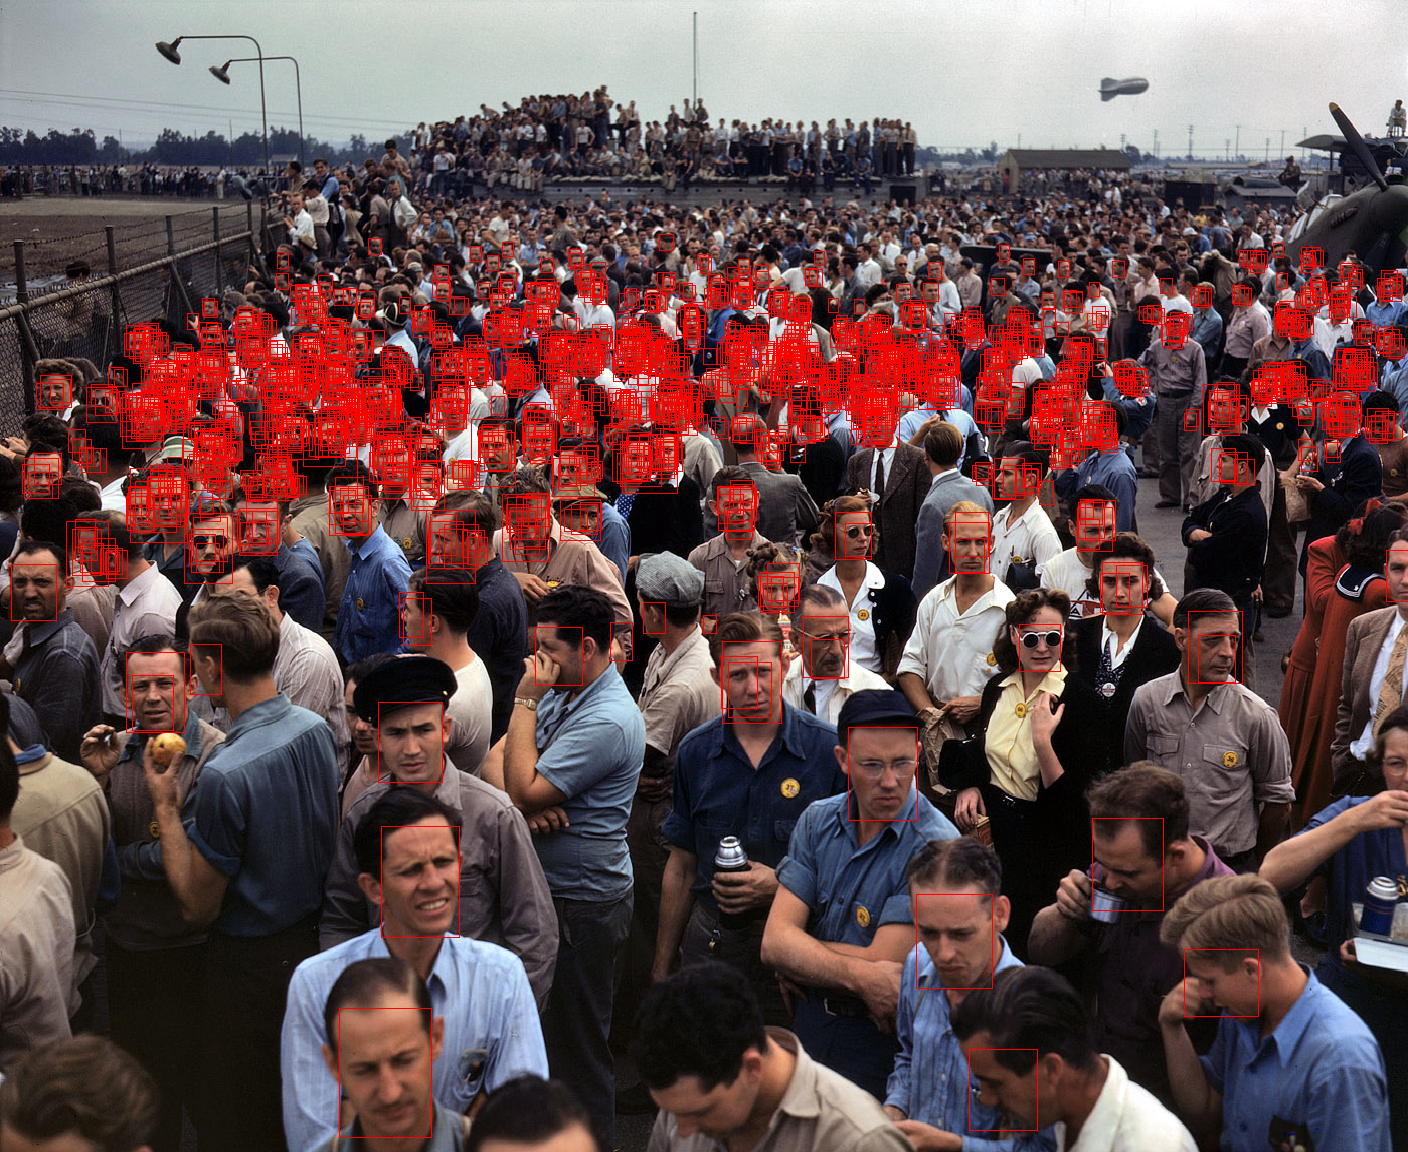
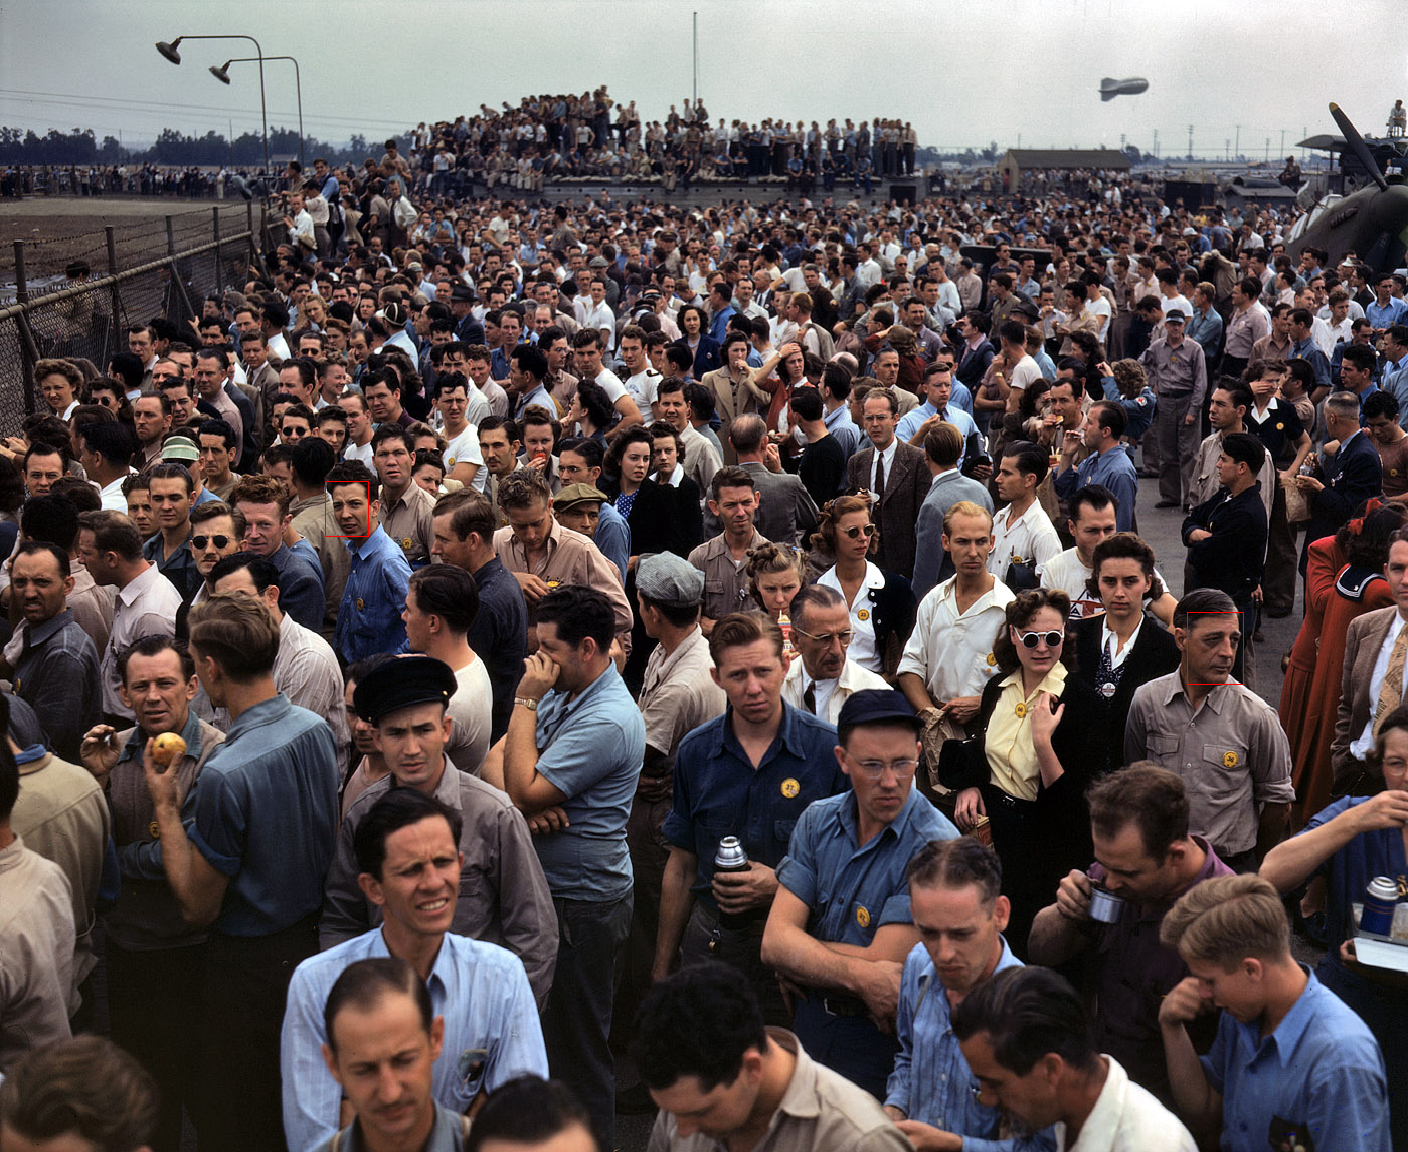
done with training

diff --git a/train.py b/train.py
@@ -2,7 +2,7 @@ import torch
 import torch.optim as optim
 import matplotlib.pyplot as plt
 
-from network_v_2_5 import FaceNet, Loss
+from network_v_2_4 import FaceNet, Loss
 from data_feeder import DataFeeder
 from util_detection import process_draw
 from process_data import get_paths_train, get_paths_val
@@ -39,9 +39,9 @@ def decrease_lr(optimizer):
 
 def main():
     train_data_feeder = DataFeeder(get_paths_train, preprocess_workers=4, cuda_workers=1,
-                                numpy_size=14, cuda_size=4, batch_size=2, jitter=True)
+                                numpy_size=14, cuda_size=4, batch_size=5, jitter=True)
     val_data_feeder = DataFeeder(get_paths_val, preprocess_workers=1, cuda_workers=1,
-                                numpy_size=6, cuda_size=1, batch_size=2, jitter = False,
+                                numpy_size=6, cuda_size=1, batch_size=5, jitter = False,
                                 volatile=True)
     train_data_feeder.start_queue_threads()
     val_data_feeder.start_queue_threads()
@@ -61,13 +61,18 @@ def main():
     v_class_logger= Logger("val_class_losses.txt")
     v_coord_logger= Logger("val_coord_losses.txt")
 
+    n_acc_grad = 1
     for i in range(150001):
-        batch_loss = calc_loss(model, loss, train_data_feeder, i, t_total_logger, t_class_logger, t_coord_logger)
-        train(batch_loss, optimizer)
+        optimizer.zero_grad()
+        for j in range(n_acc_grad):
+            batch_loss = calc_loss(model, loss, train_data_feeder, i*n_acc_grad + j, t_total_logger, t_class_logger, t_coord_logger)
+            #train(batch_loss, optimizer)
+            batch_loss.backward()
+        optimizer.step()
         if i % 20 == 0:
             print(i)
             model.eval()
-            calc_loss(model, loss, val_data_feeder, i, v_total_logger, v_class_logger, v_coord_logger)
+            calc_loss(model, loss, val_data_feeder, i*n_acc_grad, v_total_logger, v_class_logger, v_coord_logger)
             model.train()
         if i in [9999999999999]:
             decrease_lr(optimizer)
@@ -75,13 +80,13 @@ def main():
             torch.save(model.state_dict(), "savedir/facenet_"+version+"_it"+str(i//1000)+"k.pth")
     
     model.eval()
-    for i in range(0):
+    for i in range(10):
         _, batch = train_data_feeder.get_batch()
         images, gt, num_objects = batch
         images = images[0:1]
         boxes, classes, anchors = model(images)
         #process_draw(0.05, images, anchors, classes, use_nms = False, softmax=True)
-        process_draw(0.90, images, anchors, classes, use_nms = False, softmax=False, border_size=1)
+        process_draw(0.10, images, anchors, classes, use_nms = False, softmax=False, border_size=1)
 
     train_data_feeder.kill_queue_threads()
     val_data_feeder.kill_queue_threads()

diff --git a/create_eval_file.py b/create_eval_file.py
@@ -6,10 +6,10 @@ import torch
 import torch.nn as nn
 from torch.autograd import Variable
 
-from network_v_2_4 import FaceNet
+from network_v_1_4 import FaceNet
 from util_detection import nms
 from util_detection import process_draw
-
+ctr = 0
 def path2cudaimage(filepath):
     im = Image.open(filepath)
     orig_width, orig_height = im.size
@@ -23,11 +23,16 @@ def path2cudaimage(filepath):
 
 def run_model_on_img(model, cuda_img, threshold, orig_width, orig_height, width, height):
     boxes, classes, anchors = model(cuda_img, phase="test")
+    process_draw(threshold, cuda_img, boxes, classes, use_nms = True, softmax=False)
     boxes[:,:,0:1] = boxes[:,:,0:1]*orig_width/width
     boxes[:,:,1:2] = boxes[:,:,1:2]*orig_height/height
     boxes[:,:,2:3] = boxes[:,:,2:3]*orig_width/width
     boxes[:,:,3:4] = boxes[:,:,3:4]*orig_height/height
     processed_boxes, processed_conf = nms(boxes, classes, threshhold=threshold, use_nms=True, softmax=False)
+    global ctr
+    ctr += 1
+    if ctr == 300:
+        assert True == False
     return processed_boxes, processed_conf
 
 
@@ -49,7 +54,7 @@ def create_eval_txt(processed_boxes, processed_conf, cat, image_path):
 def create_txts():
     model = FaceNet().cuda()
     #model.load_state_dict(torch.load("savedir/facenet_01_it70k.pth"))
-    model.load_state_dict(torch.load("savedir/facenet_v_2_4.pth"))
+    model.load_state_dict(torch.load("savedir/facenet_v_1_4.pth"))
     model.eval()
 
     if not os.path.exists("savedir/pred"):
@@ -59,7 +64,7 @@ def create_txts():
     for cat in os.listdir(im_dir):
         for image_path in os.listdir(im_dir + cat):
             cuda_img, orig_width, orig_height, width, height = path2cudaimage(im_dir + cat + "/"+ image_path)
-            processed_boxes, processed_conf = run_model_on_img(model, cuda_img, 0.05, orig_width, orig_height, width, height)
+            processed_boxes, processed_conf = run_model_on_img(model, cuda_img, 0.4, orig_width, orig_height, width, height)
             create_eval_txt(processed_boxes, processed_conf, cat, image_path)
 
 

diff --git a/network_v_2_5.py b/network_v_2_5.py
@@ -57,7 +57,7 @@ class RegressionHead(nn.Module):
         channels = 64
         expansion = 4
         cardinality = 1
-        block_depth = 4
+        block_depth = 2
 
         res_0 = [ResidualBlock(channels, expansion, cardinality) for _ in range(block_depth)]
         res_1 = [ResidualBlock(channels, expansion, cardinality) for _ in range(block_depth)]
@@ -87,7 +87,7 @@ class ClassificationHead(nn.Module):
         channels = 64
         expansion = 4
         cardinality = 1
-        block_depth = 4
+        block_depth = 2
 
         res_0 = [ResidualBlock(channels, expansion, cardinality) for _ in range(block_depth)]
         res_1 = [ResidualBlock(channels, expansion, cardinality) for _ in range(block_depth)]
@@ -106,7 +106,7 @@ class ClassificationHead(nn.Module):
 class FaceNet(nn.Module):
     def __init__(self):
         super(FaceNet, self).__init__()
-        resnet = models.resnet101(pretrained=True)
+        resnet = models.resnet50(pretrained=True)
         modules_conv2 = list(resnet.children())[:5]
         modules_conv3 = list(resnet.children())[5]
         modules_conv4 = list(resnet.children())[6]
@@ -249,11 +249,6 @@ class ClassLoss(nn.Module):
             gather_pos.index_fill_(0, positive_idx.data, 1)
         indices = Variable(gather_pos.float())
 
-        #eps = 0.0000000001
-        #gamma = 3
-        #pred = self.sigmoid(classes)
-        #loss = -indices*((1-pred)**gamma)*torch.log(pred+eps) - (1-indices)*(pred**gamma)*torch.log(1-pred+eps)
-        #loss = -indices*torch.log(pred+eps) - (1-indices)*torch.log(1-pred+eps)
         loss = self.cross_entropy(classes, indices) / num_pos
         return loss
 

diff --git a/demo_specific_image.py b/demo_specific_image.py
@@ -14,19 +14,20 @@ from PIL import Image
 
 def test_model(images, model):
     boxes, classes, anchors = model(images, phase="test")
-    for i in [0.05, 0.7, 0.9]:
-        im = process_draw(i, images, boxes, classes, use_nms = True, border_size = 1, softmax = False)
+    for i in [0.15, 0.7, 0.9]:
+        im = process_draw(i, images, boxes, classes, use_nms = True, border_size = 4, softmax = False)
         im.save("results" + str(i) +".png")
 
 
 def main():
     model = FaceNet().cuda()
-    model.load_state_dict(torch.load("savedir/facenet_01_it85k.pth"))
+    model.load_state_dict(torch.load("savedir/facenet_v_2_4.pth"))
     model.eval()
 
     num_iterations = 1
     for i in range(num_iterations):
-        im = Image.open("/hdd/Images/crowd.jpg")
+        #im = Image.open("/hdd/Images/crowd.jpg")
+        im = Image.open("/hdd/Data/WIDERFace/WIDER_val/images/12--Group/12_Group_Group_12_Group_Group_12_935.jpg")
         width, height = im.size
         width = width + (128 - width%128)
         height = height + (128 - height%128)
